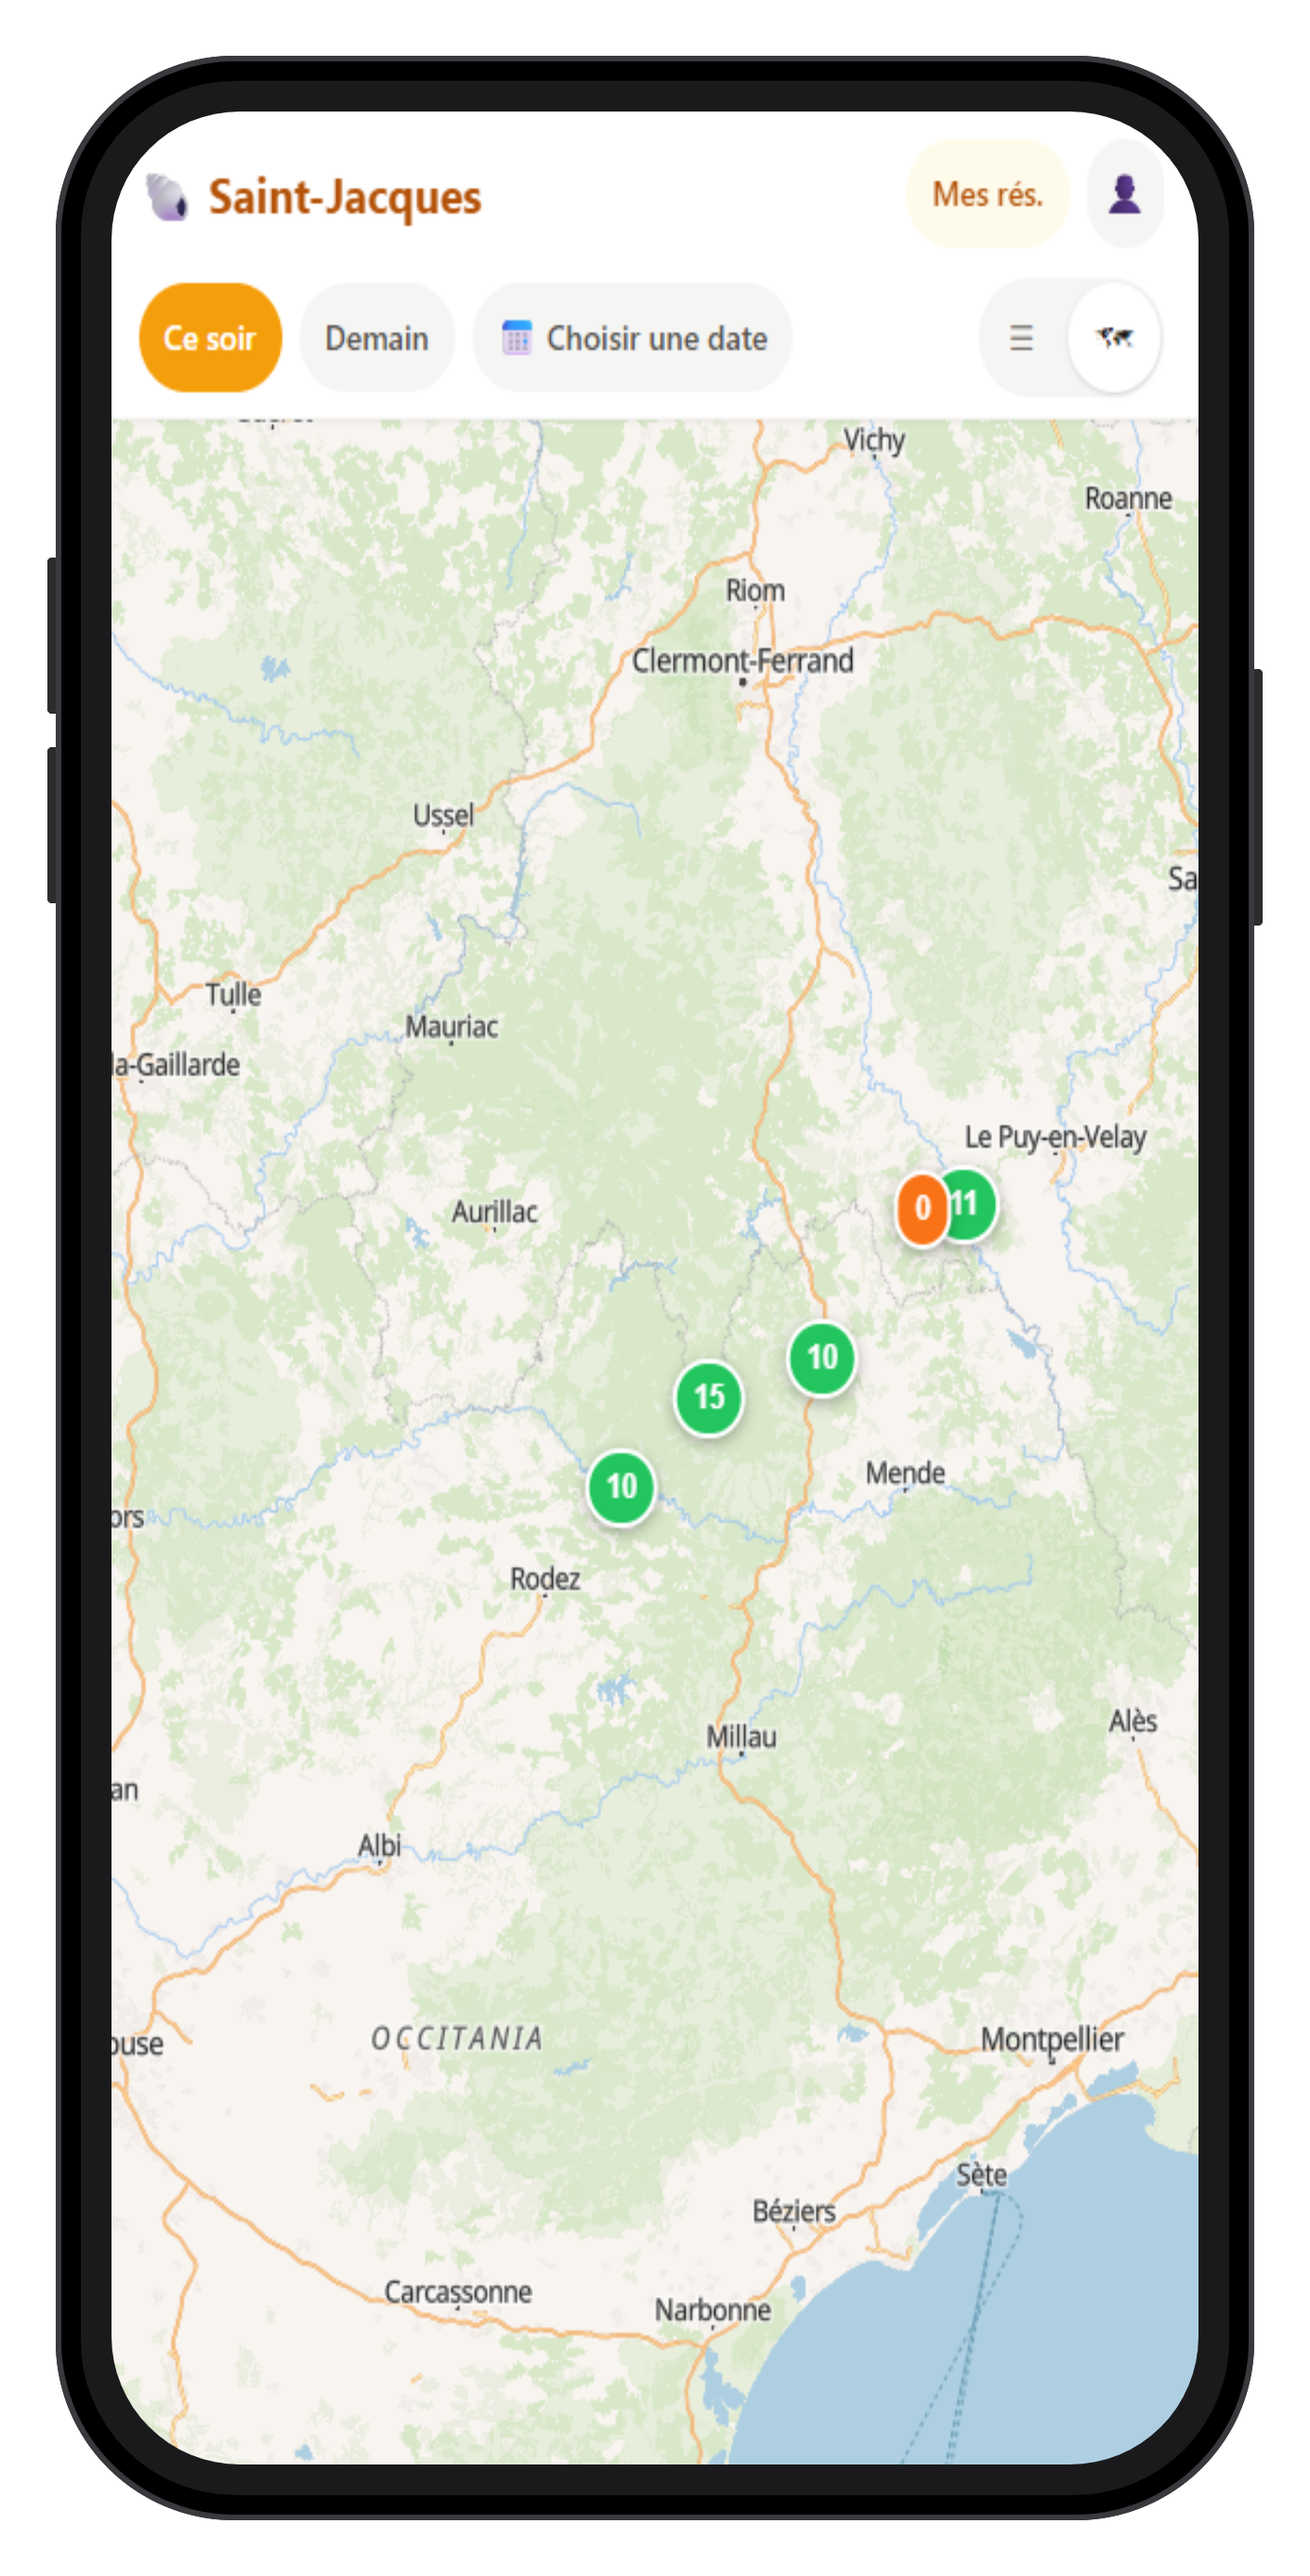
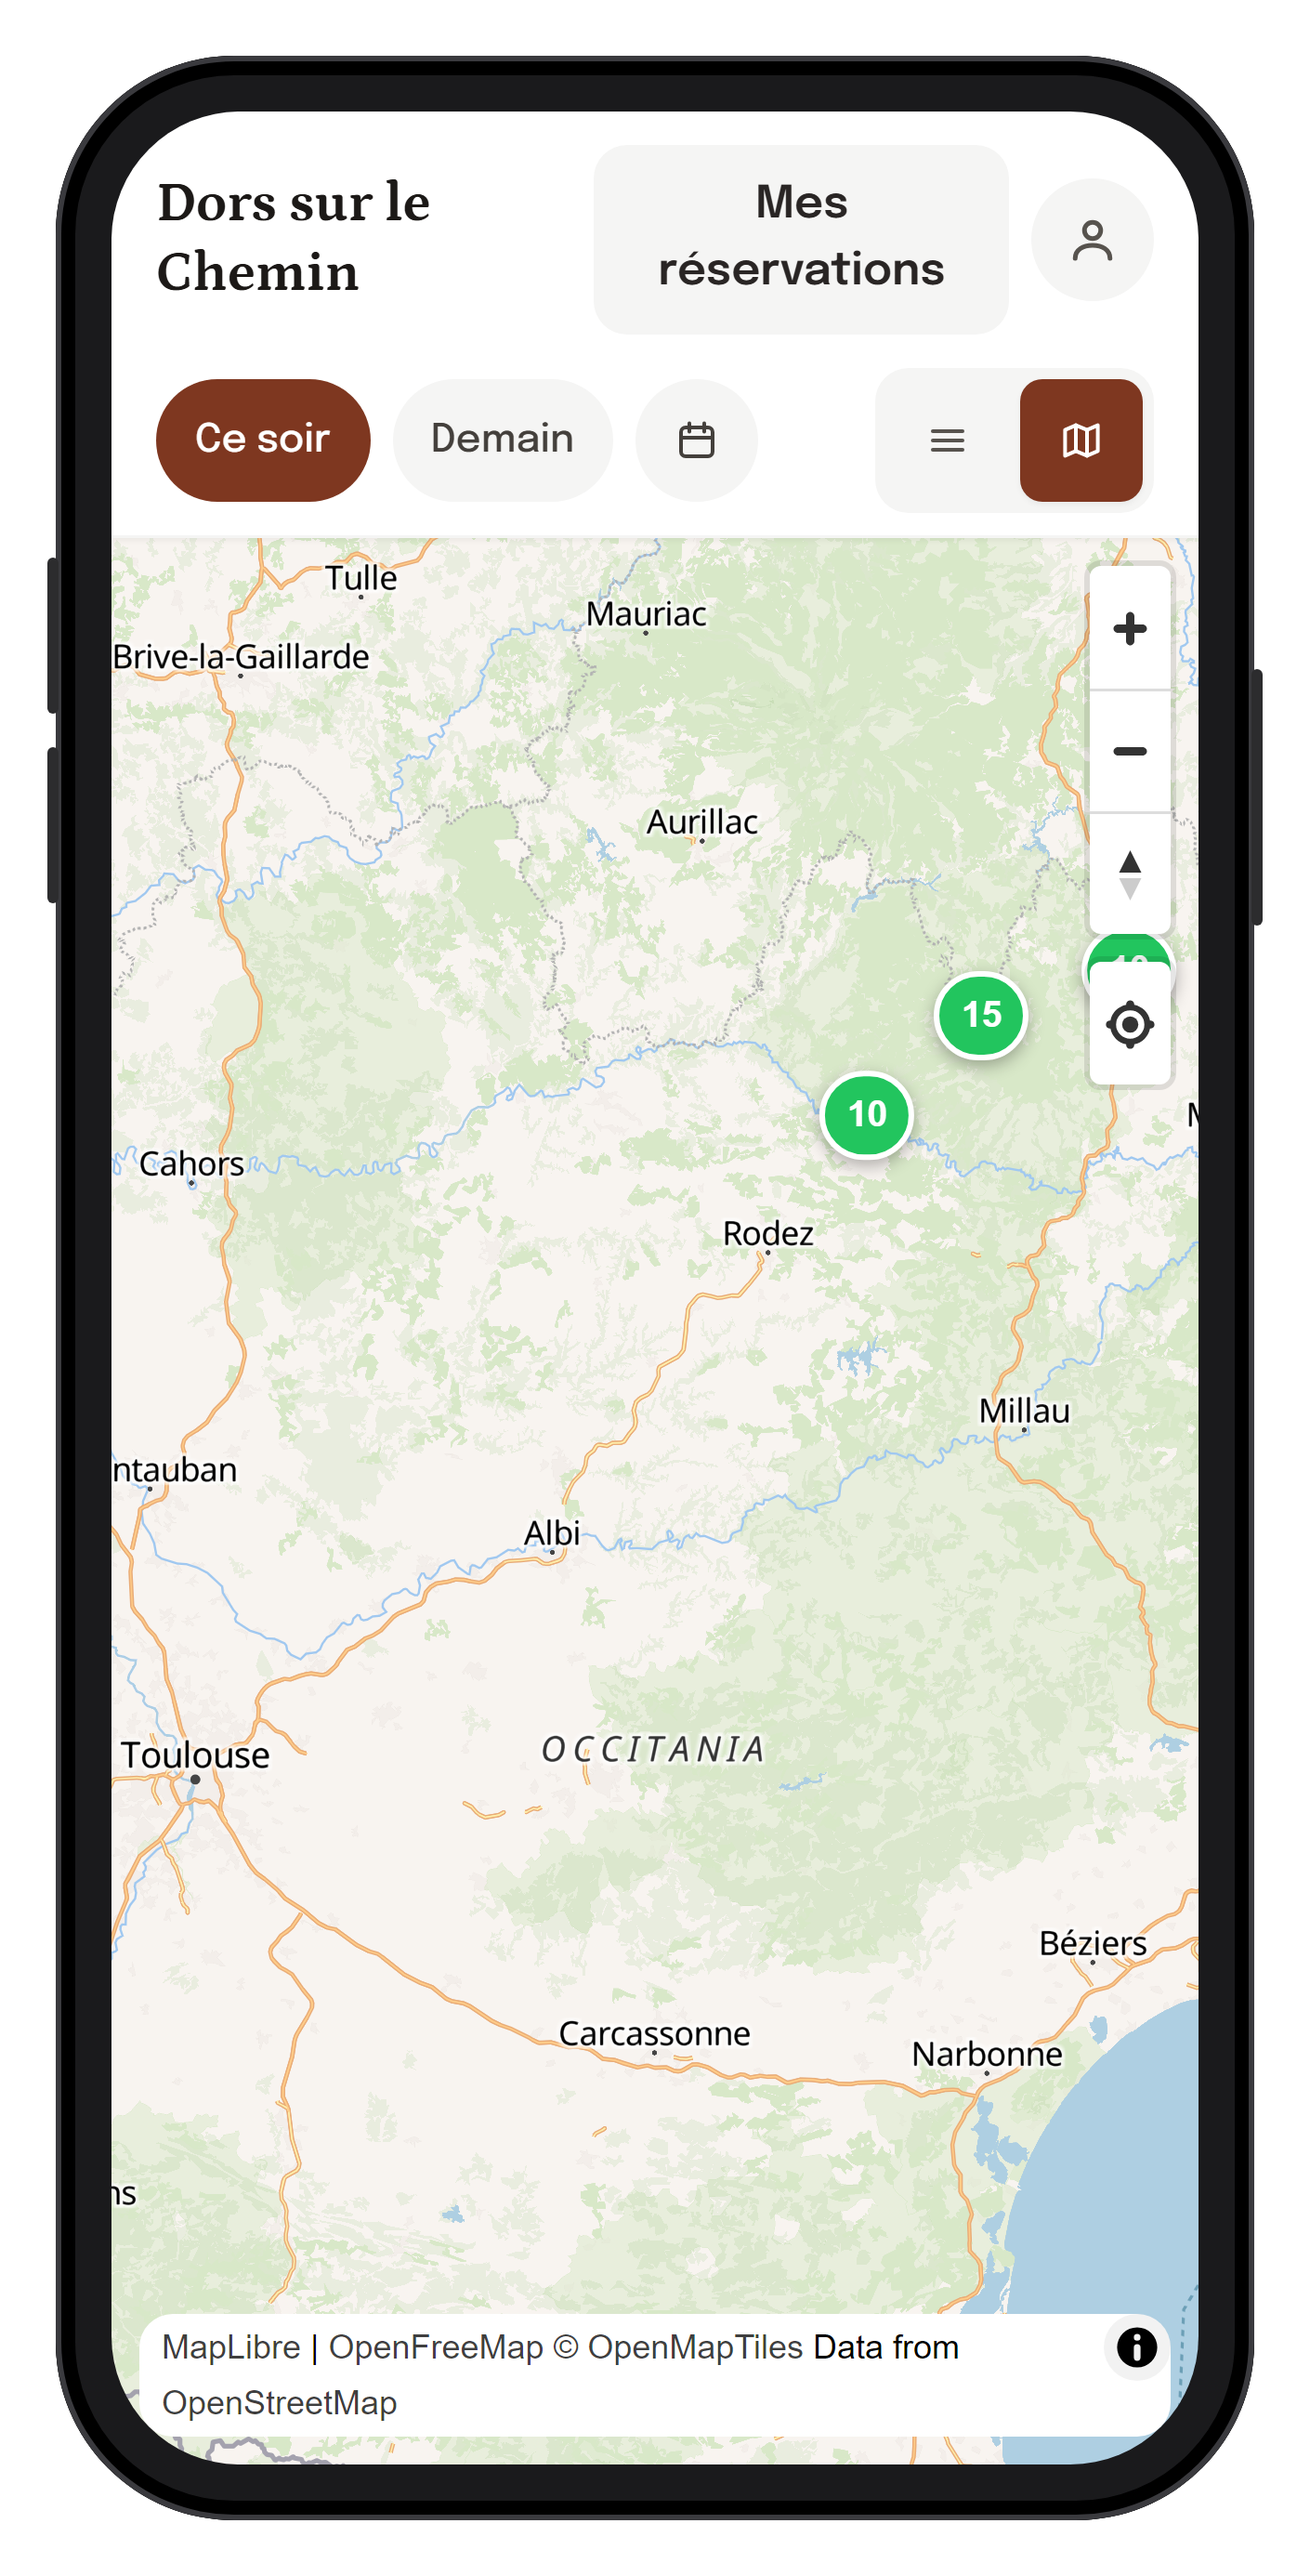
Update presentation for mobile and Vercel QR

diff --git a/index.html b/index.html
@@ -2,7 +2,8 @@
 <html lang="fr">
 <head>
 <meta charset="utf-8">
-<title>Saint-Jacques — Présentation</title>
+<meta name="viewport" content="width=device-width, initial-scale=1, viewport-fit=cover">
+<title>Dors sur le Chemin — Présentation</title>
 <style>
 *, *::before, *::after { margin: 0; padding: 0; box-sizing: border-box; }
 html, body { height: 100%; overflow: hidden; background: #1c1917;
@@ -68,7 +69,7 @@ html, body { height: 100%; overflow: hidden; background: #1c1917;
 .pin.fresh { background: var(--green); }
 .pin.today { background: var(--amber); }
 .pin.old { background: var(--gray); }
-.scene.active .pin { animation: pindrop .5s cubic-bezier(.34,1.56,.64,1) both; }
+.scene.active .pin { animation: pindrop .5s cubic-bezier(.22,1,.36,1) both; }
 @keyframes pindrop { from { opacity: 0; transform: translateY(-30px) scale(.3); }
                      to   { opacity: 1; transform: none; } }
 
@@ -93,7 +94,7 @@ html, body { height: 100%; overflow: hidden; background: #1c1917;
 
 .badge { position: absolute; transform: translateX(-50%); background: var(--amber);
   color: #fff; font-size: 15px; font-weight: 700; padding: 8px 16px;
-  border-radius: 999px; box-shadow: 0 8px 20px rgba(245,158,11,.4); }
+  border-radius: 999px; box-shadow: 0 8px 20px rgba(0,0,0,.22); }
 
 .flipbox { height: 80vh; flex: none; perspective: 1600px; }
 .flipper { position: relative; height: 100%; transform-style: preserve-3d; }
@@ -105,9 +106,9 @@ html, body { height: 100%; overflow: hidden; background: #1c1917;
 
 .toast { position: absolute; top: 6%; left: 50%; width: 78%;
   background: #fff; color: var(--ink); font-size: 15px; font-weight: 600;
-  padding: 12px 16px; border-radius: 14px; border-left: 5px solid var(--amber);
+  padding: 12px 16px; border-radius: 14px;
   box-shadow: 0 12px 30px rgba(0,0,0,.22); opacity: 0; }
-.scene.active .toast { animation: toastin .6s cubic-bezier(.34,1.4,.64,1) .8s both; }
+.scene.active .toast { animation: toastin .6s cubic-bezier(.22,1,.36,1) .8s both; }
 @keyframes toastin { from { opacity: 0; transform: translate(-50%,-40px); }
                      to   { opacity: 1; transform: translate(-50%,0); } }
 
@@ -148,7 +149,7 @@ html, body { height: 100%; overflow: hidden; background: #1c1917;
 .netpin { position: absolute; z-index: 2; width: 16px; height: 16px;
   border-radius: 50%; background: var(--amber); border: 3px solid #fff;
   box-shadow: 0 0 0 6px rgba(245,158,11,.25); opacity: 0; }
-.scene.active .netpin { animation: pindrop .5s cubic-bezier(.34,1.56,.64,1) both; }
+.scene.active .netpin { animation: pindrop .5s cubic-bezier(.22,1,.36,1) both; }
 
 .qr { width: clamp(140px, 18vh, 220px); border-radius: 16px;
   background: #fff; padding: 10px; }
@@ -184,6 +185,25 @@ html, body { height: 100%; overflow: hidden; background: #1c1917;
   #s1, #s12 { padding: 8vh 0 148px; }
   #s12 .center-stack { align-self: center; justify-content: flex-start; padding-bottom: 0; }
 }
+@media (max-width: 480px) {
+  .scene { padding: 2vh 5vw 108px; gap: 1.8vh; }
+  .phone, .flipbox { height: 46vh; }
+  .aside { gap: 1.5vh; }
+  .copy { font-size: clamp(26px, 7.8vw, 44px); }
+  .legend { gap: 8px; font-size: clamp(13px, 3.8vw, 18px); line-height: 1.2; }
+  .dot { width: 11px; height: 11px; }
+  .subcopy { font-size: clamp(14px, 3.8vw, 18px); }
+  #s1, #s12 { padding: 7vh 0 108px; }
+}
+@media (max-width: 360px) and (max-height: 640px) {
+  .phone, .flipbox { height: 42vh; }
+  .subcopy { display: none; }
+  #s3 .legend:nth-of-type(n+3) { display: none; }
+  #s9 .phone { height: 34vh; }
+  #s9 .mini-cal { gap: 4px; max-width: 288px; }
+  #s9 .tile { font-size: 12px; }
+  #s9 .tile:nth-child(n+15), #s9 .fillbar { display: none; }
+}
 /* Short landscape (phones on their side): cap asset height so copy still fits */
 @media (max-height: 520px) and (min-aspect-ratio: 1/1) {
   .phone, .flipbox { height: 76vh; }
@@ -200,7 +220,7 @@ html, body { height: 100%; overflow: hidden; background: #1c1917;
            onerror="this.remove()"></video>
     <div class="scrim"></div>
     <div class="center-stack">
-      <div class="logo rise">Saint-Jacques</div>
+      <div class="logo rise">Dors sur le Chemin</div>
       <h1 class="copy rise" style="animation-delay:.4s">Le Chemin de Compostelle</h1>
     </div>
   </section>
@@ -365,9 +385,9 @@ html, body { height: 100%; overflow: hidden; background: #1c1917;
   </section>
   <section class="scene dark" id="s13">
     <div class="center-stack">
-      <div class="logo rise">Saint-Jacques</div>
+      <div class="logo rise">Dors sur le Chemin</div>
       <h1 class="copy rise" style="animation-delay:.4s">Rejoignez
-        <span class="em">Saint-Jacques</span></h1>
+        <span class="em">Dors sur le Chemin</span></h1>
       <img class="qr breathe rise" src="qr.png" alt="QR code"
            style="animation-delay:.8s" onerror="this.style.display='none'">
     </div>
@@ -432,6 +452,14 @@ schedule();
 #navDots i { width: 14px; height: 14px; border-radius: 50%; cursor: pointer;
   background: rgba(250,246,239,.38); transition: transform .2s, background .2s; }
 #navDots i.on { background: #f59e0b; transform: scale(1.4); }
+@media (max-width: 480px) {
+  #nav { gap: 8px; padding: 10px 12px calc(14px + env(safe-area-inset-bottom, 0px)); }
+  #navBtns { gap: 18px; }
+  #navBtns button { width: 58px; height: 58px; font-size: 28px; }
+  #navPlay { font-size: 24px; }
+  #navDots { gap: 10px; }
+  #navDots i { width: 10px; height: 10px; }
+}
 </style>
 <div id="nav">
   <div id="navBtns">
